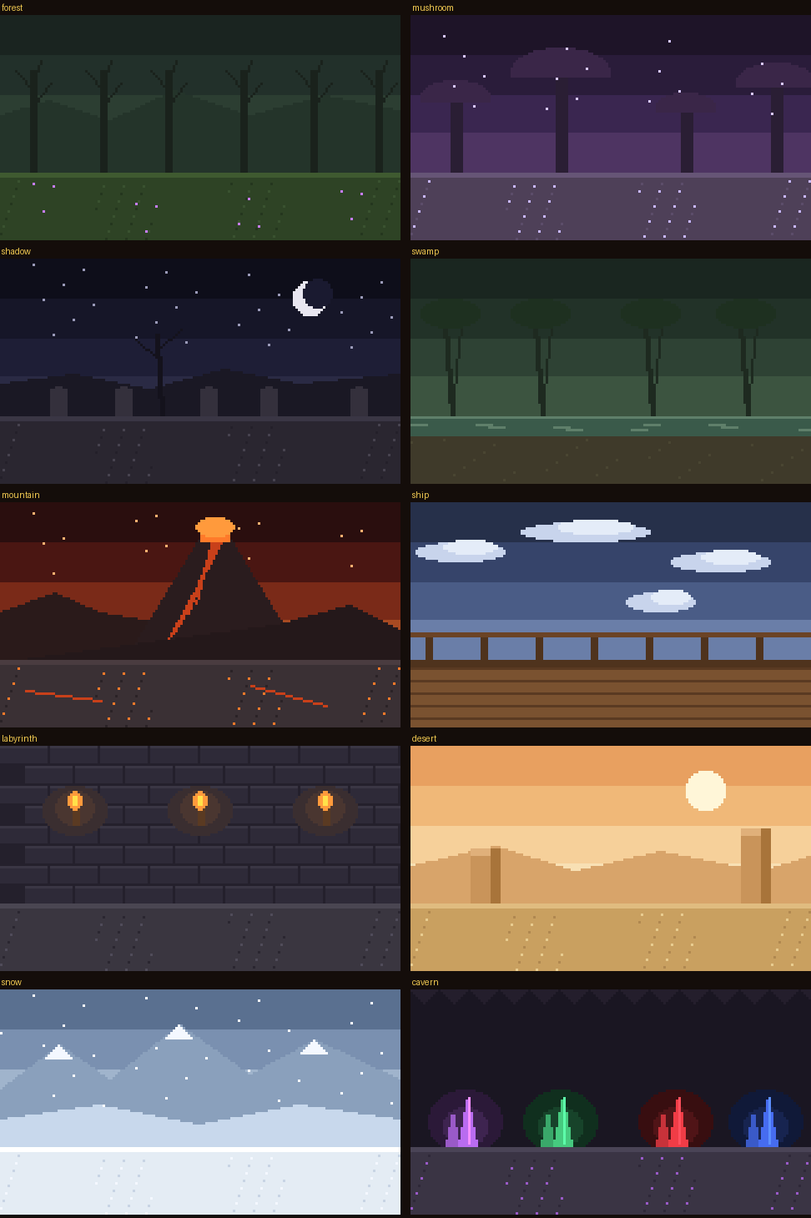
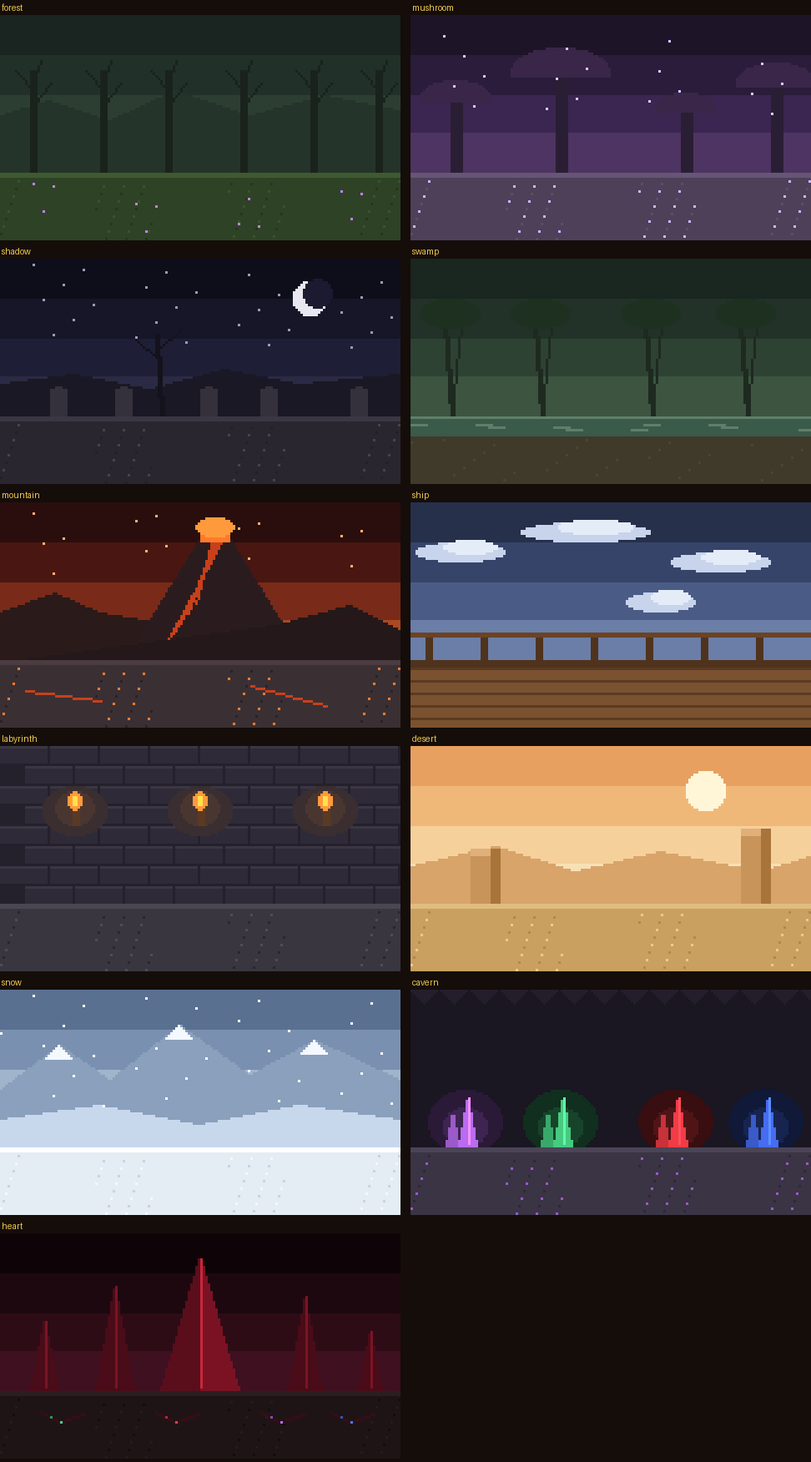
Act 3: the Heart of the Blight (from Shardbreaker)
Claude-Session: https://claude.ai/code/session_013PjqDgEZciSuqXuY6dnkmy

diff --git a/js/16-maps-battles.js b/js/16-maps-battles.js
@@ -43,7 +43,10 @@ Object.assign(TER,{
   'k':{n:'Sandstone Rocks',k:'sandstone',c:99,av:0,df:0},'^':{n:'Boulders',k:'boulder',c:99,av:0,df:0},'z':{n:'Quicksand',k:'quicksand',c:1,av:0,df:0,slow:true},
   'o':{n:'Snow',k:'snow',c:1,av:0,df:0},'j':{n:'Deep Snow',k:'deepsnow',c:1,av:0,df:0,slow:true},'a':{n:'Blue Agate',k:'agate',c:2,av:20,df:2},'i':{n:'Frozen Lake',k:'ice',c:1,av:-10,df:0},
   'c':{n:'Cave Floor',k:'cave',c:1,av:0,df:0},'x':{n:'Iridescent Rock',k:'cavewall',c:99,av:0,df:0},'g':{n:'Malachite',k:'malachite',c:2,av:20,df:2},
-  'e':{n:'Emerald Cluster',k:'emerald',c:2,av:20,df:2},'u':{n:'Ruby Cluster',k:'ruby',c:2,av:20,df:2},'p':{n:'Sapphire Cluster',k:'sapphire',c:2,av:20,df:2}
+  'e':{n:'Emerald Cluster',k:'emerald',c:2,av:20,df:2},'u':{n:'Ruby Cluster',k:'ruby',c:2,av:20,df:2},'p':{n:'Sapphire Cluster',k:'sapphire',c:2,av:20,df:2},
+  /* the Heart of the Blight: scorched ground with glowing gem veins, blighted gem clusters and crystal spires */
+  'S':{n:'Scorched Ground',k:'scorch',c:1,av:0,df:0},'G':{n:'Blighted Emerald',k:'bgem-g',c:2,av:20,df:2},'U':{n:'Blighted Ruby',k:'bgem-r',c:2,av:20,df:2},
+  'P':{n:'Blighted Sapphire',k:'bgem-b',c:2,av:20,df:2},'Y':{n:'Blighted Amethyst',k:'bgem-v',c:2,av:20,df:2},'K':{n:'Crystal Spire',k:'spire',c:99,av:0,df:0}
 });
 function bioTile2_draw(k){
   const p=Px(16,16),o=Px(16,16),dots=(c,pts)=>pts.forEach(([x,y])=>p.set(x,y,c)),S=[[2,3],[9,2],[13,6],[4,12],[11,13],[7,8],[14,11]];
@@ -60,6 +63,12 @@ function bioTile2_draw(k){
   if(k==='deepsnow'){p.ell(5,6,5,3,'#f4f8ff');p.ell(11,11,5,3,'#f4f8ff');p.line(1,9,6,9,'#b8c8dc');p.line(8,14,14,14,'#b8c8dc')}
   if(k==='agate')gem('#4a7ac8');
   if(k==='ice'){p.rect(0,0,16,16,'#a8d0ec');p.line(2,3,9,5,'#e8f6ff');p.line(9,5,14,2,'#e8f6ff');p.line(5,12,12,10,'#d0ecff');p.set(12,6,'#ffffff')}
+  /* scorched ground: near-black, cracked, with veins of gem glowing in the cracks */
+  if(k==='scorch'||k.startsWith('bgem')||k==='spire'){p.rect(0,0,16,16,'#1e1416');S.forEach(([x,y])=>{p.set(x,y,'#140c0e');p.set(x+1,y-1,'#2c1e20')});
+    const V=k==='bgem-g'?'#3fd38a':k==='bgem-b'?'#4a7aff':k==='bgem-v'?'#b46aff':'#ff3a4a';
+    p.line(0,10,5,8,'#3a0c14');p.line(5,8,9,11,'#3a0c14');p.line(9,11,16,7,'#3a0c14');p.line(11,0,12,4,'#2e0a10');p.set(7,10,shade(V,.55));if(k!=='scorch')p.set(6,9,V)}
+  if(k==='bgem-g')gem('#2a9a5a');if(k==='bgem-r')gem('#b8202e');if(k==='bgem-b')gem('#2a4ab8');if(k==='bgem-v')gem('#7a3ab0');
+  if(k==='spire'){o.poly([[3,15],[6,3],[9,15]],'#6a0e1c');o.poly([[7,15],[11,0],[14,15]],'#8a1224');o.line(11,2,11,14,'#ff5a6a');o.line(6,5,6,14,'#c8283a');o.set(10,6,'#ffb0b8')}
   if(k==='cave'||k==='emerald'||k==='ruby'||k==='sapphire'){p.rect(0,0,16,16,'#3a3444');S.forEach(([x,y])=>{p.set(x,y,'#2e2838');p.set(x+1,y-1,'#4a4456')})}
   if(k==='emerald')gem('#3aa86a');if(k==='ruby')gem('#c8323a');if(k==='sapphire')gem('#3a5ac8');
   if(k==='cavewall'){const IR=['#3a5ac8','#3a5ac8','#5a3ab0','#9a3aa0','#3a9a7a','#7aa83a','#3a5ac8'];
@@ -70,7 +79,7 @@ function bioTile2_draw(k){
   o.outline('#1a1414');for(let i=0;i<256;i++)if(o.g[i])p.g[i]=o.g[i];
   return p.url();
 }
-texStyle.textContent+=['sandstone','quicksand','snow','deepsnow','agate','ice','cave','cavewall','emerald','ruby','sapphire'].map(k=>`.t-${k}{background:url(${bioTile2(k)}) 0 0/100% 100%}`).join('');
+texStyle.textContent+=['sandstone','quicksand','snow','deepsnow','agate','ice','cave','cavewall','emerald','ruby','sapphire','scorch','bgem-g','bgem-r','bgem-b','bgem-v','spire'].map(k=>`.t-${k}{background:url(${bioTile2(k)}) 0 0/100% 100%}`).join('');
 Object.assign(BIOMES,{
   desert:{n:'Sandstone Desert',bg:'#4a3a24',town:['n','k'],townN:'Oasis Town',d:'Dunes and sandstone ruins under a white sun. Jackals run in packs, and the quicksand swallows the careless.',
     tip:['desert','Quicksand','A unit that starts its turn in quicksand has 1 less Move. Sandstone rocks block the way.'],
@@ -90,7 +99,8 @@ Object.assign(BIOMES.swamp,{town:['n','v'],townN:'Stilt Village'});Object.assign
 for(const k in BIOMES)BIOMES[k].id=k;
 /* region name with its article: 'the Sunless Isle', 'The Labyrinth', 'Mycelia' */
 const theN=B=>B.noThe||/^The /.test(B.n)?B.n:'the '+B.n,TheN=B=>{const t=theN(B);return t[0].toUpperCase()+t.slice(1)};
-const ACTS=2;
+/* acts 1 and 2 are drawn from the regions; act 3 is always the Heart of the Blight */
+const ACTS=3;
 const MUSIC={title:'music/title.mp3',tavern:'music/tavern.mp3'};for(const k in BIOMES)MUSIC[k]=`music/${k}.mp3`;
 let bgm=null,bgmKey='';
 /* Background music: drop mp3s into music/ (title.mp3, mushroom.mp3, shadow.mp3, swamp.mp3, forest.mp3, mountain.mp3, ship.mp3, labyrinth.mp3). Missing files are skipped. */
@@ -132,6 +142,11 @@ const MAPS={
   mazeHeart:{n:'Labyrinth Heart',map:["#############","###_______###","##___#_#___##","#__m_____m__#","#_#___T___#_#","#___#___#___#","#__m_____m__#","##_#_____#_##","#____m_m____#","##__#___#__##","###___F___###","####_____####","#############"],start:[[6,11],[5,11],[7,11],[4,11],[8,11],[6,10]]}
 };
 Object.assign(MAPS,{
+  /* Act 3: the Heart of the Blight */
+  heartHall:{n:'Hall of Veins',map:["SSKSSSSKSS","SYSSUSSGSS","SSSSSSSSPS","KSSGSSUSSK","SSSSKKSSSS","SPSSSSSSYS","SSSUSSGSSS","SSSSSSSSSS","SYSSSSSSUS","SSSSSSSSSS"],start:[[4,9],[5,9],[3,9],[6,9],[4,8],[5,8]]},
+  heartCore:{n:'Heart Chamber',map:["KSSSSSSSSK","SSYSTSSUSS","SSSSSSSSSS","SGSSSSSSPS","SSSSSSSSSS","KSUSSSSYSK","SSSSGSSSSS","SSPSSSSUSS","SSSSSSSSSS","SSSSSSSSSS","SSSSSSSSSS"],start:[[4,10],[5,10],[3,10],[6,10],[4,9],[5,9]]}
+});
+Object.assign(MAPS,{
   dunes:{n:"Shifting Dunes",map:["nnnnzznnnn","knnnzznnnk","nnnnnnnnnn","nzznnknnnn","nzznnnnnzz","nnnnnnnnzz","nnnFnnnnnn","nnnnnnknnn","nnnnnnnnnn","nnnnnnnnnn"],start:[[4,9],[5,9],[3,9],[6,9],[4,8],[5,8]]},
   oasis:{n:"Oasis",map:["nnnnwwnnnn","nnnwwwwnnn","knnnwwnnnk","nnnnnnnnnn","zznnknnzzn","zznnnnnzzn","nnnnnnnnnn","nknnnnnnkn","nnnnnnnnnn","nnnnnnnnnn"],start:[[4,9],[5,9],[3,9],[6,9],[4,8],[5,8]]},
   canyon:{n:"Sandstone Canyon",map:["nnnnzznnnn","nnknnnnknn","nnknnnnknn","nnnnnnnnnn","zznnkknnzz","nnnnkknnnn","nknnnnnnkn","nnnnnnnnnn","nnnnnnnnnn","nnnnnnnnnn"],start:[[4,9],[5,9],[3,9],[6,9],[4,8],[5,8]]},
@@ -155,7 +170,8 @@ function spawnTiles(m){
 }
 /* sky tiles along the map's edge, for fliers diving in */
 function skyEdge(m){const out=[],H=m.map.length,W=m.map[0].length;for(let y=0;y<H;y++)for(let x=0;x<W;x++)if((x===0||y===0||x===W-1||y===H-1)&&m.map[y][x]==='~'&&y<H-3)out.push({x,y});return shuffle(out)}
-function actBiome(){const a=run&&run.act||1;return BIOMES[(run&&run.biomes&&run.biomes[a-1])||'forest']}
+function actBiome(){const a=run&&run.act||1;if(a>=3){const H=BIOMES.heart,P=(run.biomes||[]).slice(0,2).map(b=>BIOMES[b]).filter(Boolean);H.pool=H.elitePool=P.flatMap(B=>B.elitePool);return H}
+  return BIOMES[(run&&run.biomes&&run.biomes[a-1])||'forest']}
 /* bosses lumber: they move, but only a couple of tiles a turn */
 const BOSS_MOV=2;
 function genBattle(n,kind){
@@ -175,17 +191,17 @@ function genBattle(n,kind){
   const bossName=B.boss.name||pick(BOSSN)+' '+pick(BOSST),turns=ship&&!bossFight?(elite?6:5):town?ri(5,7):0;
   const goal=bossFight?'boss':ship||town?'defend':'rout';
   const def={biome:B.id,title:bossFight?m.n:town?`Defend the ${m.n}`:m.n+(elite?' (Elite)':''),goal,turns,map:m.map,start:m.start,gifts:{},
-    intro:bossFight?`${bossName} waits for you in the ${m.n}. Defeat it to clear ${theN(B)}.`:ship?`Fliers are diving on the ship. Hold the deck for ${turns} turns.`:town?`Crystallised beasts are closing on the ${m.n.toLowerCase()}. Hold them off for ${turns} turns.`:elite?`A pack led by something old and strong holds the ${m.n.toLowerCase()}. Rout them all.`:`${count} monsters wait in the ${m.n.toLowerCase()}. Rout them.`};
+    intro:bossFight&&B.boss.intro?B.boss.intro:bossFight?`${bossName} waits for you in the ${m.n}. Defeat it to clear ${theN(B)}.`:ship?`Fliers are diving on the ship. Hold the deck for ${turns} turns.`:town?`Crystallised beasts are closing on the ${m.n.toLowerCase()}. Hold them off for ${turns} turns.`:elite?`A pack led by something old and strong holds the ${m.n.toLowerCase()}. Rout them all.`:`${count} monsters wait in the ${m.n.toLowerCase()}. Rout them.`};
   def.foes=()=>{const tiles=spawnTiles(m),out=[];
     list.forEach((c,i)=>{const lv=Math.max(1,lvBase+(rand()<.3?1:0)-(c==='Wolf'?1:0)+(elite?2:0)),u=mkMon(c,lv),t=tiles[i%tiles.length];u.x=t.x;u.y=t.y;
       if(elite&&i===0){u.name='Elder '+u.name;u.boss=true;const eb=A(2)?2:1;ST.forEach(k=>{if(k==='hp'){u.maxhp+=6*eb;u.hp+=6*eb}else u[k]+=2*eb});u.skill=u.skill||pick(['fury','brace','swift','shieldwall'])}
       if(rand()<.2){const k=pick(['qiPill','qiPill','steelJian','steelAxe','steelSpear','steelBow','leather','cloak','boots']);u.items.push({k,u:IT[k].uses,d:true})}out.push(u)});
-    if(bossFight){let bx=6,by=3;m.map.forEach((r,y)=>{const x=r.indexOf('T');if(x>=0){bx=x;by=y}});
+    if(bossFight){let bx=6,by=3;MAPS[mk].map.forEach((r,y)=>{const x=r.indexOf('T');if(x>=0){bx=x;by=y}});/* the altar marks where the boss stands */
       const b=B.boss,up=[10,3,3,3,2,2,3,3].map((v,i)=>v*(act-1)+(A(2)?[8,2,2,1,1,0,2,2][i]:0));
-      const fits=(x,y)=>cellsOf(x,y,2).every(([cx,cy])=>cy>=0&&cx>=0&&cy<m.map.length&&cx<m.map[0].length&&TER[m.map[cy][cx]].c<99);
+      const bsz=b.sz||2,fits=(x,y)=>cellsOf(x,y,bsz).every(([cx,cy])=>cy>=0&&cx>=0&&cy<m.map.length&&cx<m.map[0].length&&TER[m.map[cy][cx]].c<99);
       for(const[dx,dy]of[[0,0],[-1,0],[0,-1],[-1,-1],[1,0],[0,1]])if(fits(bx+dx,by+dy)){bx+=dx;by+=dy;break}
-      const bu=boss({id:'boss',name:bossName,cls:b.cls,lv:6+6*(act-1),mov:Math.min(b.mov||BOSS_MOV,BOSS_MOV),x:bx,y:by,s:b.s.map((v,i)=>v+up[i]),items:b.items,skill:b.skill,look:b.look?clone(b.look):monLook(b.cls)});bu.sz=2;
-      const bc=new Set(cellsOf(bx,by,2).map(c=>key(...c))),tk=new Set([...bc,...out.map(u=>key(u.x,u.y))]);
+      const bu=boss({id:'boss',name:bossName,cls:b.cls,lv:6+6*(act-1),mov:b.mov!=null?b.mov:BOSS_MOV,x:bx,y:by,s:b.s.map((v,i)=>v+up[i]),items:b.items,skill:b.skill,look:b.look?clone(b.look):monLook(b.cls)});bu.sz=bsz;if(B.id==='heart'&&run.heartCut){bu.maxhp=bu.hp=Math.round(bu.maxhp*.8)}/* the Bleeding Seam event */
+      const bc=new Set(cellsOf(bx,by,bsz).map(c=>key(...c))),tk=new Set([...bc,...out.map(u=>key(u.x,u.y))]);
       for(const u of out)if(bc.has(key(u.x,u.y))){let t=null;for(const s of spawnTiles(m))if(!tk.has(key(s.x,s.y))){t=s;break}if(t){u.x=t.x;u.y=t.y;tk.add(key(t.x,t.y))}}
       out.push(bu)}
     if(A(5))out.forEach(u=>{if(!u.skill)u.skill=pick(['fury','brace','swift','shieldwall','focus'])});
@@ -195,7 +211,8 @@ function genBattle(n,kind){
   if(ship){const edge=skyEdge(m),fl=pool.map(p=>p[0]);let e=0;for(let t=2;t<=(bossFight?6:turns);t++)W[t]=Array.from({length:1+(t%2===0?1:0)+(act>=2?1:0)},()=>({c:pick(fl),lv:Math.max(1,lvBase-1),...edge[(e++)%edge.length]}))}
   if(town){const top=[];m.map.forEach((r,y)=>{if(y<=1)[...r].forEach((ch,x)=>{if(TER[ch].c<99)top.push({x,y})})});shuffle(top);let e=0;for(let t=2;t<=turns;t++)W[t]=Array.from({length:1+(t%2)+(act>=2?1:0)},()=>({c:roll(),lv:Math.max(1,lvBase-1),...top[(e++)%top.length]}))}
   m.map.forEach((r,y)=>[...r].forEach((ch,x)=>{if(ch==='C')def.gifts[key(x,y)]=rand()<.3?'pyrite':'gold:'+ri(15,30)}));
-  if(bossFight&&B.boss.summon)for(const t of[3,5,7,9])W[t]=[{c:B.boss.summon,lv:lvBase,x:6,y:3,ifBoss:1},{c:B.boss.summon,lv:lvBase,x:6,y:3,ifBoss:1}];
+  /* summoning bosses: two more every other turn. summon:'*' picks from the region's pool */
+  if(bossFight&&B.boss.summon){const sc=()=>B.boss.summon==='*'?roll():B.boss.summon;for(const t of[3,5,7,9])W[t]=[{c:sc(),lv:lvBase,x:6,y:3,ifBoss:1},{c:sc(),lv:lvBase,x:6,y:3,ifBoss:1}];def.summonTxt=B.boss.summonTxt}
   if(Object.keys(W).length)def.waves=W;
   return def;
 }

diff --git a/js/20-events.js b/js/20-events.js
@@ -1,9 +1,9 @@
 /* Event scenes, events, woes and event helpers */
 /* ---- events: a scene of what's happening, a short text, and choices. Each choice's go() returns the outcome text, or null to step back. ---- */
-const REG_SKY={mushroom:['#2a2040','#5a3a6a','#8a5a8a'],shadow:['#14121e','#24223a','#3a3450'],swamp:['#1a2a24','#2e4a3a','#4a6a4a'],forest:['#1a221c','#2e3a2e','#4a5240'],
+const REG_SKY={heart:['#0e0408','#2e0c16','#4e1424'],mushroom:['#2a2040','#5a3a6a','#8a5a8a'],shadow:['#14121e','#24223a','#3a3450'],swamp:['#1a2a24','#2e4a3a','#4a6a4a'],forest:['#1a221c','#2e3a2e','#4a5240'],
   mountain:['#2a1414','#5a2a1e','#a8482a'],ship:['#26304a','#56668c','#8e9ab8'],labyrinth:['#141218','#24202c','#34303e'],
   desert:['#c8783a','#e8a85a','#f3d08a'],snow:['#4a6a9a','#8aaad0','#c8daf0'],cavern:['#120e1a','#221a2e','#342a44']};
-const REG_GROUND={mushroom:'#4e4058',shadow:'#34303c',swamp:'#3f5a4a',forest:'#3e4436',mountain:'#3a3034',ship:'#7a5230',labyrinth:'#4a4652',desert:'#c9a060',snow:'#e4ecf4',cavern:'#3a3444'};
+const REG_GROUND={heart:'#1e1416',mushroom:'#4e4058',shadow:'#34303c',swamp:'#3f5a4a',forest:'#3e4436',mountain:'#3a3034',ship:'#7a5230',labyrinth:'#4a4652',desert:'#c9a060',snow:'#e4ecf4',cavern:'#3a3444'};
 function eventScene(prop){
   const B=actBiome(),c='EV|'+prop+'|'+B.id;if(sprCache[c])return sprCache[c];
   const W=160,H=90,p=Px(W,H),sky=REG_SKY[B.id]||REG_SKY.forest,gr=REG_GROUND[B.id]||'#3e4436';
@@ -237,8 +237,24 @@ Object.assign(EVENTS,{
       u.items.push({k,u:IT[k].uses});run.gold=gold()+40;addWoe('wound',1);addWoe('marked',1,u);sfx('fanfare');return`${u.name} grabs the <b>${IT[k].n}</b> and a fistful of gold. Something wakes. You’ll be hunted next fight, ${u.name} most of all.`}},
     {l:'Pocket some gold quietly',sub:'+40 gold',go:async()=>{run.gold=gold()+40;sfx('item');return'40 gold, and nothing stirs.'}}]}}
 });
+/* ---- act 3 events: only these appear on the road to the Crystal Heart ---- */
+Object.assign(EVENTS,{
+  echo:{t:'Ithren’s Echo',act:3,art:'sage',d:'The air shivers, and Ithren’s voice comes through the crystal, faint and far away. “You’re close now. I can give you one thing. Choose.”',o:[
+    {l:'“Mend us”',sub:'Everyone heals fully, and your woes are lifted',go:async()=>{run.roster.forEach(u=>u.hp=u.maxhp);run.woes=[];sfx('heal');return'Warmth runs through the squad. Every wound closes, and the weight you were carrying lifts.'}},
+    {l:'“Sharpen us”',sub:'Every unit +1 Str and +1 Mag',go:async()=>{run.roster.forEach(u=>{bump(u,'str',1);bump(u,'mag',1)});sfx('ding');return'Your hands steady. Every unit gains 1 Str and 1 Mag.'}},
+    {l:'“Shield us”',sub:'Every unit +2 Res',go:async()=>{run.roster.forEach(u=>bump(u,'res',2));sfx('ding');return'A pale light settles over the squad. Every unit gains 2 Res.'}}]},
+  fallen:{t:'Those Who Came Before',act:3,art:'battlefield',d:'Another squad got this far. Their gear lies where they fell, half grown over with red crystal.',o:null,make:()=>{
+    const last=(prof.hist||[]).flatMap(h=>h.fallen||[])[0];if(last)EVENTS.fallen.d=`Another squad got this far. Their gear lies where they fell, half grown over with red crystal. One of the blades is ${last.n}’s.`;return[
+    {l:'Take a fallen weapon',sub:'One unit’s weapon is reforged +2',go:async()=>{const u=await pickUnit('Whose weapon is reforged?','Their weapon gains +2 (up to +3).',u=>weaponOf(u)?null:'No weapon');if(!u)return null;const it=weaponOf(u);forge(it);forge(it);sfx('item');return`${u.name} works the old steel into their own. <b>${IT[it.k].n}</b>.`}},
+    {l:'Bury them',sub:'Every unit gains 50 EXP',go:async()=>{await expAll(run.roster,50);return'You do what you can for them. The squad goes on quieter (+50 EXP).'}}]}},
+  seam:{t:'The Bleeding Seam',act:3,art:'shrine',d:'A seam of red crystal pulses in the rock like a heartbeat. It runs straight towards the Heart.',o:[
+    {l:'Break the seam',sub:'The Crystal Heart starts with 20% less HP; every unit loses 3 HP now',go:async()=>{run.heartCut=1;run.roster.forEach(u=>u.hp=Math.max(1,u.hp-3));sfx('broke');return'The seam shatters and something deep below screams. The shards bite on the way out (−3 HP each), but the Heart is weaker for it.'}},
+    {l:'Pry out a shard',sub:'A rare relic; one unit is Marked next fight',go:async()=>{const k=await relicPick(1,['r'],'A shard of the Heart','It’s warm, and it’s watching.');const v=pick(run.roster);addWoe('marked',1,v);return`${k?`<b>${RELICS[k].n}</b>. `:''}${v.name} feels something turn to look at them.`}},
+    {l:'Leave it',go:async()=>'You step over it. It keeps beating.'}]}
+});
 async function eventNode(){
-  const ks=Object.keys(EVENTS).filter(k=>!EVENTS[k].act||EVENTS[k].act===(run.act||1)),seen=run.seenEv=run.seenEv||[],fresh=ks.filter(k=>!seen.includes(k)),ek=pick(fresh.length?fresh:ks),E=EVENTS[ek],opts=(E.card=null,E.o||E.make());seen.push(ek);
+  /* act 3 only draws act-3 events; acts 1 and 2 never do */
+  const A3=(run.act||1)>=3,ks=Object.keys(EVENTS).filter(k=>A3?EVENTS[k].act===3:!EVENTS[k].act||EVENTS[k].act===(run.act||1)),seen=run.seenEv=run.seenEv||[],fresh=ks.filter(k=>!seen.includes(k)),ek=pick(fresh.length?fresh:ks),E=EVENTS[ek],opts=(E.card=null,E.o||E.make());seen.push(ek);
   music(actBiome().id);
   for(;;){
     const m=await evShow(E,E.d,opts.map((x,i)=>{const poor=x.cost&&gold()<x.cost,none=x.need&&!x.need();return[String(i),x.l,(x.sub||'')+(poor?' (not enough gold)':none?' (nobody can use it)':''),poor||none]}));

diff --git a/js/15-regions-monsters.js b/js/15-regions-monsters.js
@@ -34,6 +34,8 @@ IT.bite={n:'Bite',t:'heavy',kind:'claw',mt:9,hit:75,crit:10,r:[1,1],uses:99,key:
 IT.antlers={n:'Antlers',t:'pole',kind:'claw',mt:6,hit:85,crit:5,r:[1,1],uses:99,key:'antlers'};
 IT.mallet={n:'Mallet',t:'heavy',kind:'claw',mt:6,hit:85,crit:0,r:[1,1],uses:99,key:'mallet'};
 IT.hooves={n:'Hooves',t:'blade',kind:'claw',mt:5,hit:90,crit:0,r:[1,1],uses:99,key:'hooves'};
+/* the Crystal Heart's attack: crystals grow on the target and shatter. Long range, but it can't strike next to itself */
+IT.shatter={n:'Shatter',t:'art',kind:'talisman',el:'crystal',mt:6,hit:85,crit:0,r:[2,6],uses:99,mag:true,key:'shatter'};
 IT.breath={n:'Magma Breath',t:'art',kind:'talisman',el:'fire',mt:9,hit:80,crit:0,r:[1,2],uses:99,mag:true,key:'breath'};
 SKILLS.venom={n:'Venom',cost:15,d:'On a hit, poisons the target: it loses 3 HP at the start of each of its turns for 3 turns (never below 1 HP).'};
 IT.scroll_venom={n:'Venom Scroll',t:'scroll',kind:'scroll',skill:'venom',uses:1,key:'scroll_venom'};
@@ -49,6 +51,7 @@ Object.assign(CLS,{
   Boulder:{n:'Boulder Golem',w:['heavy'],body:'golem',mov:4},FireSprite:{n:'Fire Sprite',w:['art'],body:'flame',mov:5,lava:true},MagmaDragon:{n:'Magma Dragon',w:['art','heavy'],body:'dragon',mov:0,lava:true},
   WyvernM:{n:'Wyvern',w:['heavy'],body:'mount',mov:6,fly:true},PegasusM:{n:'Pegasus',w:['blade'],body:'mount',mov:7,fly:true},Tempest:{n:'Storm Elemental',w:['art'],body:'storm',mov:3,fly:true},
   Beholder:{n:'Beholder',w:['art'],body:'eye',mov:4},
+  CrystalHeart:{n:'Crystal Heart',w:['art'],body:'crystal',mov:0},
   Lurker:{n:'Bog Lurker',w:['blade'],body:'gator',mov:4,wade:true},Treant:{n:'Blighted Treant',w:['heavy'],body:'golem',mov:3}
 });
 CLS.LamiaM.wade=true;
@@ -88,7 +91,7 @@ const MONLOOK={
   Beholder:()=>({body:pick(['#8a4a6a','#4a6a8a','#6a4a3a']),eye:pick(['#5fc2a0','#ffd23f','#ff5a3a'])})
 };
 /* regions switched off for now: still defined (art, maps, docs) but runs never pick them. The Flying Ship and Mycelia are off for now; delete them from this list to bring them back */
-const BIOMES_OFF=['ship','mushroom'],biomeIds=()=>Object.keys(BIOMES).filter(b=>!BIOMES_OFF.includes(b));
+const BIOMES_OFF=['ship','mushroom'],biomeIds=()=>Object.keys(BIOMES).filter(b=>!BIOMES_OFF.includes(b)&&b!=='heart');
 const BIOMES={
   mushroom:{n:'Mycelia',noThe:1,bg:'#3a2a48',d:'Glowing mycelium and giant toadstools. The fungus folk have turned feverish under the blight, and their spores poison on a hit.',
     tip:['spores','Poison spores','Fungus attacks poison on a hit: 3 damage at the start of each of your turns for 3 turns. A Salve cures it.'],
@@ -117,7 +120,12 @@ const BIOMES={
   labyrinth:{n:'The Labyrinth',bg:'#2a2630',d:'Stone corridors with no daylight. Something with too many eyes watches from the dark.',
     tip:['maze','The Labyrinth','Beholders can turn units to stone with their gaze. Stone units skip their next turn.'],
     maps:['maze1','vaults','pillars'],bossMap:'mazeHeart',pool:[['Gremlin',3],['Beholder',2,3]],elitePool:[['Beholder',3],['Gremlin',2]],
-    boss:{name:'',cls:'MinotaurM',s:[34,12,0,6,4,2,9,2],items:['steelAxe'],skill:'fury',look:{style:'bald',horns:true,beard:true,hair:'#2a1a14',skin:'#7a4e32',cloth:'#4a3a2a',eye:'#ff5a3a',hornGem:'#d8323a',crysAt:[{core:[15,19],col:'#d8323a'}]}}}
+    boss:{name:'',cls:'MinotaurM',s:[34,12,0,6,4,2,9,2],items:['steelAxe'],skill:'fury',look:{style:'bald',horns:true,beard:true,hair:'#2a1a14',skin:'#7a4e32',cloth:'#4a3a2a',eye:'#ff5a3a',hornGem:'#d8323a',crysAt:[{core:[15,19],col:'#d8323a'}]}}},
+  /* Act 3, the end of every run: not in the region draw (biomeIds). Its monsters are the elites of the two regions you came through (actBiome fills the pools) */
+  heart:{n:'The Heart of the Blight',noThe:1,bg:'#3a1018',d:'Scorched ground split by veins of glowing gem. Every crystal in these lands grew from what waits here.',
+    tip:['heart','The Crystal Heart','The Heart never moves, but it strikes from 2 to 6 tiles away. Get next to it: it can’t hit what’s beside it. It calls more blighted monsters every other turn.'],
+    maps:['heartHall'],bossMap:'heartCore',pool:[],elitePool:[],
+    boss:{name:'The Crystal Heart',cls:'CrystalHeart',sz:3,mov:0,s:[56,0,8,8,0,0,8,8],items:['shatter'],skill:'focus',summon:'*',summonTxt:'The Crystal Heart calls the blighted!',intro:'The Crystal Heart beats at the centre of the chamber, and every crystal in these lands beats with it. Shatter it to end the blight.',look:{crys:false}}}
 };
 
 /* PNG art: each of these uses art/<key>.png when it exists, else the drawing code above (see art() in 03-pixel-art.js) */

diff --git a/js/09-battle-scene.js b/js/09-battle-scene.js
@@ -28,7 +28,7 @@ async function strikeAnim(X,Y,e,w,dist){
   if(!ranged)await xw.animate([{transform:'translateX(0)'},{transform:`translateX(${dir*gap}px)`}],{duration:D(190),easing:'cubic-bezier(.6,0,.9,.7)',fill:'forwards'}).finished;
   else await xw.animate([{transform:'translateX(0)'},{transform:`translateX(${-dir*10}px)`}],{duration:D(140),fill:'forwards'}).finished;
   if(xr)rigShow(xs,'swing');else xi.src=sprite(X,'strike',w.key);
-  sfx(w.kind==='staff'&&!ranged?'swing':w.t==='art'?({fire:'fire',water:'water',wind:'wind',earth:'earth',lightning:'thunder',illusion:'dark',light:'heal'}[w.el]||'fire'):w.t==='bow'?'arrow':ranged?'throw':w.kind==='whip'?'whip':w.kind==='chain'?'chain':w.kind==='fan'||w.kind==='umbrella'?'wind':'swing');
+  sfx(w.kind==='staff'&&!ranged?'swing':w.t==='art'?({fire:'fire',water:'water',wind:'wind',earth:'earth',lightning:'thunder',illusion:'dark',light:'heal',crystal:'broke'}[w.el]||'fire'):w.t==='bow'?'arrow':ranged?'throw':w.kind==='whip'?'whip':w.kind==='chain'?'chain':w.kind==='fan'||w.kind==='umbrella'?'wind':'swing');
   const yc=centerOf(ys);
   if(ranged){
     const xc=centerOf(xs);
@@ -40,6 +40,7 @@ async function strikeAnim(X,Y,e,w,dist){
   const yHp=Y===sc.a?e.hpA:e.hpD,xHp=X===sc.a?e.hpA:e.hpD;
   if(e.hit){
     if(e.guard)skillBanner(ys,e.guard);
+    if(w.el==='crystal')shatterFx(yc.x,yc.y);
     if(yr)rigShow(ys,'hit');yi.animate([{filter:'brightness(4)'},{filter:'none'}],{duration:D(200)});if(xr)setTimeout(()=>rigShow(xs,'follow'),D(90));
     sfx(e.crit?'crit':'hit');bnum(ys,e.crit?'CRIT '+e.dmg:String(e.dmg),e.crit?'crit':'');
     /* crits shake the whole scene */if(e.crit)stage.animate([{transform:'translate(0,0)'},{transform:'translate(-8px,4px)'},{transform:'translate(7px,-3px)'},{transform:'translate(-5px,2px)'},{transform:'translate(3px,-1px)'},{transform:'translate(0,0)'}],{duration:D(380)});
@@ -88,6 +89,10 @@ function battleBgArt_draw(id){const c='BG|'+id;if(sprCache[c])return sprCache[c]
   else if(id==='cavern'){p.rect(0,0,W,G,'#1a1622');for(let x=0;x<W;x+=12){const h=6+(x*7)%14;p.poly([[x,0],[x+12,0],[x+6,h]],'#241e2c')}
     for(const[x,col]of[[20,'#9a5ac8'],[58,'#3aa86a'],[104,'#c8323a'],[140,'#3a5ac8']]){p.ell(x+2,G-10,15,13,shade(col,.28));p.ell(x+2,G-8,9,8,shade(col,.4));p.poly([[x-6,G],[x-3,G-16],[x,G]],col);p.poly([[x-1,G],[x+3,G-22],[x+7,G]],shade(col,1.2));p.line(x+3,G-20,x+3,G-2,shade(col,1.6))}
     ground('#3a3444','#4a4456',['#2e2838','#9a5ac8'])}
+  /* the Heart of the Blight: a blood-red dark, far spires, scorched ground with gem-lit cracks */
+  else if(id==='heart'){sky(['#0e0408','#1e0810','#2e0c16','#3e1020']);for(const[x,h,w]of[[18,30,6],[46,44,8],[122,40,7],[148,26,5]]){p.poly([[x-w,G],[x,G-h],[x+w,G]],'#4a0c18');p.line(x,G-h+2,x,G-2,'#7a1424')}
+    p.poly([[64,G],[80,8],[96,G]],'#5a0e1c');p.poly([[80,8],[96,G],[80,G]],'#7a1224');p.line(80,10,80,G-2,'#c8283a');
+    ground('#1e1416','#2c1e20',['#140c0e','#261a1c']);for(const[x,c]of[[24,'#3fd38a'],[70,'#ff3a4a'],[112,'#b46aff'],[140,'#4a7aff']]){p.line(x-8,G+8,x,G+12,'#3a0c14');p.line(x,G+12,x+9,G+9,'#3a0c14');p.set(x,G+12,c);p.set(x-4,G+10,shade(c,.7))}}
   else{sky(['#121522','#1e2436','#2a3146','#3a4258']);ground('#363b33','#454a40',['#2a2e28'])}
   return sprCache[c]=p.url()}
 async function scenePlay(a,d,res){
@@ -107,6 +112,10 @@ async function scenePlay(a,d,res){
     await dieFx(fw,stage,fb.left-sb.left+fb.width/2,fb.top-sb.top+fb.height*.55,u,2)}
   await sleep(D(200));
 }
+/* the Crystal Heart's Shatter: red crystal shards burst off the target */
+function shatterFx(cx,cy){sfx('broke');for(let i=0;i<14;i++){const sh=document.createElement('i'),a=i/14*6.283,r=24+Math.random()*26,sz=4+Math.random()*5;sh.className='shard';
+  Object.assign(sh.style,{left:cx+'px',top:(cy-20)+'px',width:sz+'px',height:sz*1.8+'px',background:['#ff5a6a','#c8283a','#ffb0b8','#8a1224'][i%4]});stage.appendChild(sh);
+  sh.animate([{transform:'translate(-50%,-50%) scale(.4)',opacity:1},{transform:`translate(calc(-50% + ${Math.cos(a)*r}px),calc(-50% + ${Math.sin(a)*r}px)) rotate(${Math.random()*360}deg)`,opacity:0}],{duration:D(520),easing:'cubic-bezier(.2,.7,.4,1)',fill:'forwards'}).finished.then(()=>sh.remove())}}
 /* death: the unit flashes white, staggers, then shatters into crystal shards (k scales the shards up for the battle scene) */
 function dieFx(el,host,cx,cy,u,k=1,quiet){if(!quiet){sfx('death');setTimeout(()=>sfx('broke'),D(260))}
   const cols=u.team==='e'?['#c58aff','#9fd8ff','#efe0ff','#7a5ac8']:['#f3f0e8','#ffd27a','#bfe8ff','#d8d0bc'];

diff --git a/js/03-pixel-art.js b/js/03-pixel-art.js
@@ -2,7 +2,7 @@
 /* ================= PIXEL ART ================= */
 const OUT='#1a1420',SKIN='#f3cfa6',SKIN2='#d6a07a',METAL='#c3cad6',METAL2='#7f889b',BROWN='#7a5230',BROWN2='#4f331d',GOLD='#e2b553',CREAM='#efe6cf',JADE='#5fc2a0',RED='#c8322e',INK='#2a2230';
 const TEAMC={p:{a:'#3a7cc0',A:'#22507f',s:'#ece6d4'},e:{a:'#4a3d66',A:'#2a2140',s:'#1c1826'},g:{a:'#3f8f5a',A:'#25603a',s:'#e6efd8'}};
-const ELC={dark:'#9a6ad8',nature:'#7fd36a',light:'#fff2b0',fire:'#ff8a3c',water:'#4fb2ff',wind:'#7fe0a8',earth:'#c9a060',lightning:'#ffe14a',illusion:'#c58aff',spirit:'#bff5e0'};
+const ELC={dark:'#9a6ad8',nature:'#7fd36a',light:'#fff2b0',fire:'#ff8a3c',water:'#4fb2ff',wind:'#7fe0a8',earth:'#c9a060',lightning:'#ffe14a',illusion:'#c58aff',spirit:'#bff5e0',crystal:'#ff5a6a'};
 function shade(h,f){const n=parseInt(h.slice(1),16);const c=[n>>16,(n>>8)&255,n&255].map(v=>clamp(Math.round(v*f),0,255));return'#'+c.map(v=>v.toString(16).padStart(2,'0')).join('')}
 let pxHook=null,pxScale=1,pxMini=false;
 function Px(w,h){const g=new Array(w*h).fill(null);const P={w,h,g,
@@ -142,7 +142,7 @@ function crystallise(P,cls,big,small,sc){if(small){const W=32,g=P.g;let h=0;for(
 }
 function fig(L,cls,team,pose,wk,sz){
   if(typeof isHi==='function'&&isHi(cls,sz))return hiFig(L||{},cls,team,pose,wk);
-  if(sz===2){const B=BIG[CLS[cls].body+(L.bones?'_bones':'')];if(B)return B(L,pose==='strike');pxScale=2}
+  if(sz>=2){const B=BIG[CLS[cls].body+(L.bones?'_bones':'')];if(B)return B(L,pose==='strike');pxScale=2}
   if(team==='e'&&!CLS[cls].tier&&!String(cls).startsWith('G.')&&!L.blight){pxHook=P=>L.crys===false?0:L.crysAt?crysAt(P,L.crysAt):crystallise(P,cls,!!L.big||/Wyrm|Dragon|Colossus|Turtle|King|Stag|Krondis|Tempest|Roc/.test(cls),L.crysSmall,L.crysCol)}
   pxMini=!!L.mini;try{return fig0(L,cls,team,pose,wk)}finally{pxHook=null;pxScale=1;pxMini=false}
 }
@@ -150,6 +150,16 @@ function fig(L,cls,team,pose,wk,sz){
    64px BOSS ART: hand-drawn big bodies for 2x2 bosses (BIG[body])
    ================================================================== */
 const BIG={};
+/* the Crystal Heart (act 3 boss, 3x3): the title-screen crystal at 96px, a ring of gem shards round its base. Strike: it flares */
+BIG.crystal=(L,strike)=>art('bosses/crystal-heart'+(strike?'-strike':''),()=>{const W=96,k=W/120,p=Px(W,W),f=strike?1.25:1,D='#4a0614',M=shade('#8a1224',f),Rd=shade('#c8283a',f),Li=shade('#ff5a6a',f),H='#ffb0b8';
+  const spire=(x,base,top,w,lean)=>{[x,base,top,w,lean]=[x,base,top,w,lean].map(v=>v*k);const t=[x+lean,top],bl=[x-w,base],br=[x+w,base],ml=[x-w*.8+lean*.3,top+(base-top)*.25],mr=[x+w*.8+lean*.3,top+(base-top)*.25];
+    p.poly([t,mr,br,bl,ml],Rd);p.poly([t,ml,bl,[x+lean*.2,base]],M);p.poly([t,[x+lean*.2,base],br,mr],Li);p.line(Math.round(t[0]),Math.round(t[1]),Math.round(x+lean*.2),Math.round(base),H);
+    for(let j=0;j<3;j++){const y=top+(base-top)*(.35+j*.2);p.line(Math.round(x-w*.6),Math.round(y),Math.round(x+lean*.1),Math.round(y+5),D)}};
+  spire(30,104,62,9,-10);spire(92,104,56,10,9);spire(44,106,40,10,-5);spire(78,106,36,11,5);spire(60,108,6,16,0);
+  p.poly([[6,94],[20,84],[36,89],[48,86],[62,89],[78,83],[90,94],[90,96],[6,96]],'#1a0c14');p.line(16,90,42,95,D,2);p.line(56,95,82,89,D,2);
+  for(const[x,y,c]of[[10,90,'#3fd38a'],[86,88,'#4a7aff'],[22,93,'#b46aff'],[74,93,'#ffd23f']]){p.poly([[x-2,y+3],[x,y-3],[x+2,y+3]],c);p.set(x,y-1,'#ffffff')}
+  for(const[x,y]of[[46,24],[51,42],[45,58],[37,48],[64,50]])p.set(x,y,'#fff0f2');
+  p.outline('#14060c');return p.url()});
 /* a clean gem crystal for 64px art: dark rim, face, lit edge, shaded side */
 function gem64(p,x,y,h,w,col,lean=0){const hi=shade(col,1.5),lo=shade(col,.62),tx=x+lean;
   p.poly([[x-w-1,y+1],[tx,y-h-1],[x+w+1,y+1]],OUT);p.poly([[x-w,y],[tx,y-h],[x+w,y]],col);p.poly([[tx,y-h],[x+w,y],[x+1,y]],lo);p.line(tx-1,y-h+2,x-w+1,y-1,hi)}

diff --git a/js/25-crossroads-sage.js b/js/25-crossroads-sage.js
@@ -34,7 +34,7 @@ async function sageScene(){
   const lines=['Ah, you came. Sit, sit. Look into the glass with me.',
     'A blight has taken root in these lands: malignant crystals. They grow through living creatures and twist them into something cruel.',
     'Worse, the crystallised beasts give off a scent that drives people to rage. The nearby kingdoms are already at each other’s throats.',
-    `The glass shows where the blight runs deepest: first ${theN(B1)}, then ${theN(B2)}. Break the crystals at their heart, and the scent will fade.`,
+    `The glass shows where the blight runs deepest: first ${theN(B1)}, then ${theN(B2)}. Beyond them lies its source, the Crystal Heart. Shatter it, and the scent will fade.`,
     'An army would only feed the war. A small band can slip through. Travellers have gathered at the crossroads. Choose three to walk this road, and choose well: not all of them will come back.'];
   /* difficulty: arrows over the crystal ball, only once Ascension is unlocked */
   let asc=0;const diffHTML=()=>prof.asc?`<div class="sg-diff"><button type="button" data-d="-1" aria-label="Easier"${asc<=0?' disabled':''}>◀</button><span><b>${asc?'Ascension '+asc:'Normal'}</b><small>${asc?ASC[asc]:'The standard run.'}</small></span><button type="button" data-d="1" aria-label="Harder"${asc>=prof.asc?' disabled':''}>▶</button></div>`:'';
@@ -55,7 +55,7 @@ async function musterScene(opts,need){
   /* stand the travellers in an arc around the campfire: the far ones behind it, smaller */
   const ang=i=>Math.PI*(1-i/(n-1)),pos=i=>50+38*Math.cos(ang(i)),up=i=>8+24*Math.sin(ang(i)),sc=i=>1-.22*Math.sin(ang(i));
   musEl.innerHTML=`<div class="tv-scene"><img class="tv-bg" src="${musterArt()}" alt="">
-      <div class="ms-post" aria-label="Signpost"><span class="ms-sign"><small>Act 1</small>${B1.n}</span><span class="ms-sign"><small>Act 2</small>${B2.n}</span></div>
+      <div class="ms-post" aria-label="Signpost"><span class="ms-sign"><small>Act 1</small>${B1.n}</span><span class="ms-sign"><small>Act 2</small>${B2.n}</span><span class="ms-sign"><small>Act 3</small>${BIOMES.heart.n}</span></div>
       ${opts.map((u,i)=>`<button type="button" class="mu" data-u="${i}" style="left:${pos(i)}%;bottom:${up(i)}%;--s:${sc(i)};z-index:${10-Math.round(Math.sin(ang(i))*5)}" aria-label="${u.name}"><img src="${uSpr(u)}" alt=""${pos(i)>50?' class="fl"':''}><span>${u.name}</span></button>`).join('')}
       <button type="button" class="ms-map" data-g="map" aria-label="Look at the map" title="Look at the map"><img src="${mapIconArt()}" alt="">Map</button><span class="tv-gold">Seed ${run.seed}</span></div>
     <div class="tv-box"><div class="ms-head"><b class="ms-count"></b><button type="button" class="mini ms-info" data-g="info" aria-expanded="false">ⓘ What do stats do?</button></div>${statHelpHTML()}

diff --git a/js/13-save.js b/js/13-save.js
@@ -1,6 +1,6 @@
 /* Save/load and chapter setup */
 /* ================= CHAPTERS / SAVE ================= */
-const SAVE='sbtactics.save.v1',OPTS='sbtactics.opts';
+const SAVE='embermarch2.save.v1',OPTS='embermarch2.opts';
 function saveGame(){if(!run)return;const map=run.phase==='map';try{localStorage.setItem(SAVE,JSON.stringify({state:map?null:state,rewinds,chStart:map?null:chStart,run,def:map?null:CH[0],rng:rngS}))}catch(_){}}
 function loadGame(){try{return JSON.parse(localStorage.getItem(SAVE))}catch(_){return null}}
 function setMap(){MAP=CH[state.ch].map;MW=MAP[0].length;MH=MAP.length}
@@ -22,7 +22,7 @@ function npc(id,x,y,o){return Object.assign(mkHero(heroDef(id)),{team:'g',x,y,ho
 function enterMap(){setMap();over=null;phase='player';busy=false;ui='idle';clearSel();buildBoard();render();requestAnimationFrame(()=>initCam())}
 async function chapterIntro(){
   const c=CH[state.ch];
-  await modal(`<div class="eyebrow">Act ${run.act||1} · Floor ${run.n} of ${RUN_LEN} · ${NODE_N[run.kind]||'Battle'}</div><h2>${c.title}</h2><p>${c.intro.replaceAll('{lord}',lordName())}</p><div class="lvl" style="grid-template-columns:1fr"><div><span style="color:var(--gold)">Goal</span><span>${goalText().replace(/<[^>]+>/g,' ').trim()}</span></div><div><span style="color:var(--red)">Lose</span><span>${loseText()}</span></div></div><div class="mbtns"><button class="go" type="button" data-m="go">Begin</button></div>`);
+  await modal(`<div class="eyebrow">Act ${run.act||1} · Floor ${run.n} of ${actLen()} · ${NODE_N[run.kind]||'Battle'}</div><h2>${c.title}</h2><p>${c.intro.replaceAll('{lord}',lordName())}</p><div class="lvl" style="grid-template-columns:1fr"><div><span style="color:var(--gold)">Goal</span><span>${goalText().replace(/<[^>]+>/g,' ').trim()}</span></div><div><span style="color:var(--red)">Lose</span><span>${loseText()}</span></div></div><div class="mbtns"><button class="go" type="button" data-m="go">Begin</button></div>`);
   banner('Player Phase','p');saveGame();
   {const B=BIOMES[c.biome];if(B&&B.tip)tip(...B.tip)}
   if(state.ch===0)tip('basics','Moving your units','Tap a blue unit to see where it can go: blue tiles are moves, red tiles are what it can hit. Tap a tile to move there, or tap a red enemy to attack it straight away. Dead woods give +20 Avoid and +1 Def, so fight from the trees when you can.');

diff --git a/js/27-run-flow.js b/js/27-run-flow.js
@@ -40,7 +40,7 @@ async function winScreen(){
   run.lost=(run.lost||0)+fallen.length;(run.fallen=run.fallen||[]).push(...fallen.map(u=>({n:u.name,c:CLS[u.cls].n,act:run.act||1,floor:run.n})));if(bossWin&&!prof.bosses.includes(actBiome().id)){prof.bosses.push(actBiome().id);saveProf()}
   const gg=(GOLDWIN[run.kind]||GOLDWIN.battle)+(R('plenty')?15:0)+(rw.gold||0);run.gold=gold()+gg;afterFightMeals();
   const ro=survivors.map(u=>`<div><img src="${portrait(u)}" alt="">${u.name}<span class="hint">Lv ${u.lv} · ${Math.min(u.maxhp,u.hp+afterHeal())}/${u.maxhp} HP</span></div>`).join('')+fallen.map(u=>`<div class="dead"><img src="${portrait(u)}" alt="">${u.name}<span class="hint">Fallen</span></div>`).join('');
-  await modal(`<div class="eyebrow">Act ${run.act||1} · Floor ${run.n} of ${RUN_LEN} won · Turn ${state.turn}</div><h2>${CH[0].title}</h2><p>${final?'The run is complete.':bossWin?`${TheN(actBiome())} is cleared. The road leads on to ${theN(BIOMES[run.biomes[run.act]])}.`:`Survivors recover ${afterHeal()} HP. Taverns and camps heal fully.`}</p><div class="roster">${ro}</div><p>${rw.length?`Found: ${rw.map(k=>`<b>${IT[k].n}</b>`).join(', ')}. `:''}<span class="gold">+${gg} gold</span></p><div class="mbtns"><button class="go" type="button" data-m="next">${final?'Finish':'Press on'}</button></div>`);
+  await modal(`<div class="eyebrow">Act ${run.act||1} · Floor ${run.n} of ${actLen()} won · Turn ${state.turn}</div><h2>${CH[0].title}</h2><p>${final?'The run is complete.':bossWin?`${TheN(actBiome())} is cleared. The road leads on to ${theN(run.act>=2?BIOMES.heart:BIOMES[run.biomes[run.act]])}.`:`Survivors recover ${afterHeal()} HP. Taverns and camps heal fully.`}</p><div class="roster">${ro}</div><p>${rw.length?`Found: ${rw.map(k=>`<b>${IT[k].n}</b>`).join(', ')}. `:''}<span class="gold">+${gg} gold</span></p><div class="mbtns"><button class="go" type="button" data-m="next">${final?'Finish':'Press on'}</button></div>`);
   for(const k of rw)await giveTo(k,'From the battlefield.',true);
   if(run.pendSkill){const k=run.pendSkill;run.pendSkill=null;await allocSkill(k,`Found: ${SKILLS[k].n}`)}
   if(run.kind==='elite'){await relicPick(2,['c','u'],'The elite’s spoils','');

diff --git a/js/18-node-map.js b/js/18-node-map.js
@@ -25,6 +25,8 @@ function pathsOk(rows){
   return rows[0].every((_,i)=>walk(0,i,{}));
 }
 function genMap(){
+  /* act 3 is a straight road: tavern, elite, an act-3 event, camp, then the Crystal Heart */
+  if((run&&run.act||1)>=3){const rows=['tavern','elite','event','rest','boss'].map((t,r,a)=>[{t,x:50,next:r<a.length-1?[0]:[]}]);return{rows}}
   const lanes=[0,1,2].map(()=>{for(;;){const l=laneFrom(),c={};l.forEach(t=>c[t]=(c[t]||0)+1);if(pathOk(c))return l}}),rows=[];
   for(let r=0;r<ROWS;r++)rows.push(lanes.map(l=>({t:l[r],next:[]})));
   for(let r=0;r<ROWS-1;r++)rows[r].forEach((n,i)=>n.next=[i]);
@@ -45,6 +47,8 @@ function campArt_draw(){const p=Px(16,16);p.line(2,14,13,10,BROWN,2);p.line(2,10
 function chestArt_draw(){const p=Px(16,16);p.rect(2,6,12,8,BROWN);p.ell(8,6,6,3,BROWN2,(x,y)=>y<=6);p.rect(2,8,12,1,GOLD);p.rect(7,8,2,3,GOLD);p.rect(2,6,1,8,BROWN2);p.rect(13,6,1,8,BROWN2);p.set(8,9,INK);p.outline(OUT);return p.url()}
 function eventArt_draw(){const p=Px(16,16);p.ell(8,8,6.5,6.5,'#6a4a8a');p.line(6,5,8,4,'#f3dc9a',2);p.line(9,4,10,6,'#f3dc9a',2);p.line(10,7,8,9,'#f3dc9a',2);p.rect(7,10,2,1,'#f3dc9a');p.rect(7,12,2,2,'#f3dc9a');p.outline(OUT);return p.url()}
 const RUN_LEN=ROWS+2;
+/* floors in the current act's map (act 3 is shorter) */
+const actLen=()=>run&&run.map&&run.map.rows?run.map.rows.length:RUN_LEN;
 /* difficulty runs on a 10-floor scale whatever the map length */
 const flScale=n=>Math.round((n||1)*10/RUN_LEN);
 const NODE_IC={};

diff --git a/js/21-progress.js b/js/21-progress.js
@@ -64,7 +64,7 @@ function endRun(won){
 async function historyScreen(){
   const H=prof.hist||[],d=t=>{try{return new Date(t).toLocaleDateString(undefined,{day:'numeric',month:'short'})+' '+new Date(t).toLocaleTimeString(undefined,{hour:'2-digit',minute:'2-digit'})}catch(_){return''}};
   const card=h=>`<div class="hist ${h.won?'won':'lost'}"><div class="hh"><b>${h.won?'Victory':'Defeat'}</b><span>${d(h.date)}${h.asc?` · Ascension ${h.asc}`:''} · Seed ${h.seed}</span></div>
-    <p>${h.won?'Cleared':'Fell in'} ${(h.regions||[]).slice(0,h.won?2:h.act||1).map(r=>BIOMES[r]?BIOMES[r].n:r).join(' → ')}${h.won?'':` · Act ${h.act||1}, floor ${h.floor||1} of ${RUN_LEN}`}</p>
+    <p>${h.won?'Cleared':'Fell in'} ${[...(h.regions||[]).slice(0,2),'heart'].slice(0,h.won?3:h.act||1).map(r=>BIOMES[r]?BIOMES[r].n:r).join(' → ')}${h.won?'':` · Act ${h.act||1}, floor ${h.floor||1} of ${RUN_LEN}`}</p>
     <div class="hsq">${(h.squad||[]).map(u=>`<span>${u.n} <small>${u.c} · Lv ${u.lv}</small></span>`).join('')}${(h.fallen||[]).map(u=>`<span class="dead">${u.n} <small>${u.c} · fell A${u.act} F${u.floor}</small></span>`).join('')}</div>
     ${(h.relics||[]).length?`<div class="hrel">${h.relics.filter(k=>RELICS[k]).map(k=>`<img src="${relicArt(k)}" alt="${RELICS[k].n}" title="${RELICS[k].n}: ${RELICS[k].d}">`).join('')}</div>`:''}</div>`;
   await modal(`<div class="eyebrow">${prof.runs} run${prof.runs===1?'':'s'} · ${prof.wins} won</div><h2>Run History</h2>

diff --git a/js/12-turns.js b/js/12-turns.js
@@ -197,7 +197,7 @@ function checkEnd(){if(over)return;const c=CH[state.ch];
 function spawnWaves(t){const w=CH[state.ch].waves;if(!w||!w[t])return;const bo=state.units.find(u=>u.boss&&u.team==='e'&&u.id==='boss');
   const fs=typeof w[t]==='function'?w[t]():w[t].filter(d=>!d.ifBoss||bo).map((d,i)=>{const u=mkMon(d.c,d.lv);u.id=`w${t}_${i}`;u.x=d.ifBoss?bo.x:d.x;u.y=d.ifBoss?bo.y:d.y;return u});
   if(!fs.length)return;const taken=new Set(state.units.filter(u=>u.hp>0).flatMap(u=>cellsOf(u.x,u.y,u.sz).map(c=>key(...c))));
-  for(const f of fs){const p=freeNear(f.x,f.y,taken,f);f.x=p.x;f.y=p.y;taken.add(key(p.x,p.y));state.units.push(f)}render();toast(bo&&CH[state.ch].waves[t][0]?.ifBoss?`${bo.name} raises the dead!`:'Enemy reinforcements!')}
+  for(const f of fs){const p=freeNear(f.x,f.y,taken,f);f.x=p.x;f.y=p.y;taken.add(key(p.x,p.y));state.units.push(f)}render();toast(bo&&CH[state.ch].waves[t][0]?.ifBoss?CH[state.ch].summonTxt||`${bo.name} raises the dead!`:'Enemy reinforcements!')}
 async function stageTwo(){
   busy=true;const c=CH[state.ch];state.stage=2;render();await sleep(500);
   await playStory(STORY[state.ch]&&(state.freed?STORY[state.ch].freed:STORY[state.ch].mid));

diff --git a/js/08-render.js b/js/08-render.js
@@ -48,7 +48,7 @@ function render(){
     el.style.left=u.x*T+'px';el.style.top=u.y*T+'px';{const w=(u.sz||1)*T+'px';if(el.style.width!==w){el.style.width=el.style.height=w;el.firstChild.style.width=el.firstChild.style.height=w}}
     if(u.hp<=0&&!el.dataset.dead&&el.isConnected&&el.style.opacity!==''){el.dataset.dead=1;dieFx(el,boardEl,(u.x+(u.sz||1)/2)*T,(u.y+(u.sz||1)/2)*T,u,1,settings.anim)}else if(u.hp>0)delete el.dataset.dead;
     el.style.opacity=u.hp>0?1:0;
-    const src=sprite(u,'idle',mapWk(u)),img=el.firstChild;if(img.dataset.s!==src){img.src=src;img.dataset.s=src;img.style.transform='';img.style.transformOrigin='';if(u.sz>1)fillBox(img,src,u.team==='e')}img.classList.toggle('hi',isHi(u.cls,u.sz));
+    const src=sprite(u,'idle',mapWk(u)),img=el.firstChild;if(img.dataset.s!==src){img.src=src;img.dataset.s=src;img.style.transform='';img.style.transformOrigin='';if(u.sz>1&&src.startsWith('data:'))fillBox(img,src,u.team==='e')}img.classList.toggle('hi',isHi(u.cls,u.sz));
     el.querySelector('.hpb i').style.width=(u.hp/u.maxhp*100)+'%';
   }
   for(const id in uEls)if(!live.has(id)){uEls[id].remove();delete uEls[id]}
